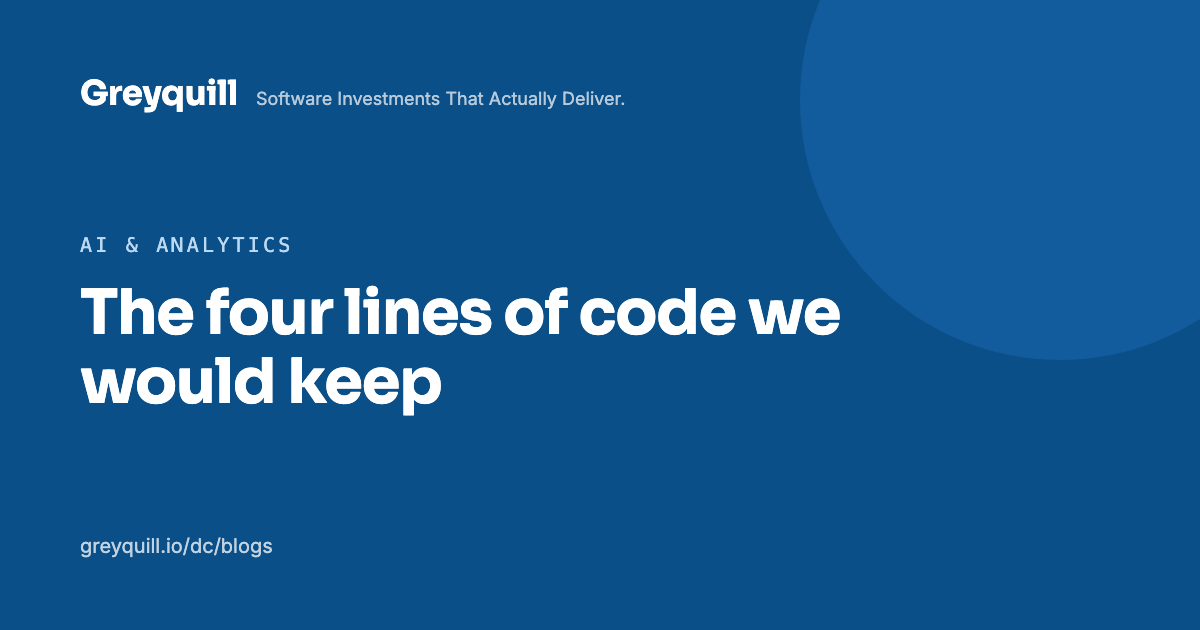
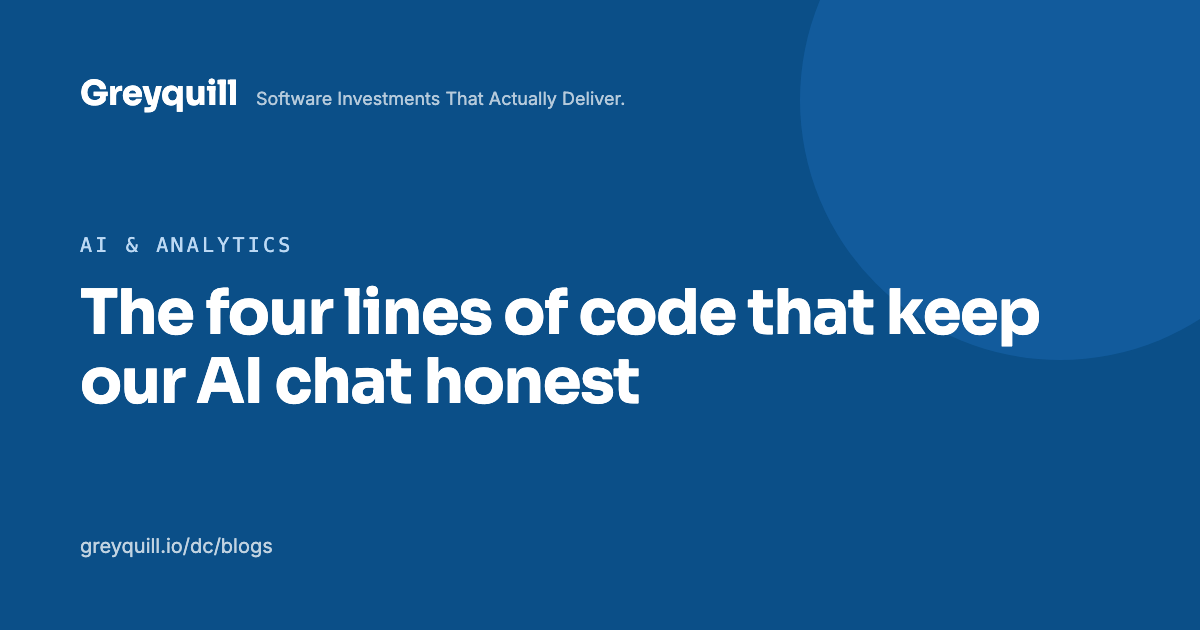
Retitle the post to say what it is about: keeping the AI chat honest

Changed region(s): [[0.0617, 0.5429, 0.555, 0.6635], [0.6167, 0.4524, 0.8633, 0.5429]]

diff --git a/blogs/four-lines-we-would-keep.html b/blogs/four-lines-we-would-keep.html
@@ -5,13 +5,13 @@
   <meta name="viewport" content="width=device-width, initial-scale=1">
   <script>(function(){try{var k='gq-blog-theme',t=localStorage.getItem(k);if(t!=='light'&&t!=='dark')t=matchMedia('(prefers-color-scheme: dark)').matches?'dark':'light';document.documentElement.setAttribute('data-theme',t);}catch(e){}})();</script>
 
-  <title>The four lines of code we would keep. Greyquill</title>
+  <title>The four lines of code that keep our AI chat honest. Greyquill</title>
   <meta name="description" content="Our website chat answers from what we have published and nothing else. A better model deleted 800 lines of scaffolding around it. Four lines survived, and they are the part that matters.">
   <meta name="author" content="Amarnath Bagineni">
   <link rel="canonical" href="https://www.greyquill.io/dc/blogs/four-lines-we-would-keep.html">
 
   <meta property="og:type" content="article">
-  <meta property="og:title" content="The four lines of code we would keep">
+  <meta property="og:title" content="The four lines of code that keep our AI chat honest">
   <meta property="og:description" content="Our website chat answers from what we have published and nothing else. A better model deleted 800 lines of scaffolding. Four lines survived.">
   <meta property="og:url" content="https://www.greyquill.io/dc/blogs/four-lines-we-would-keep.html">
   <meta property="og:site_name" content="Greyquill">
@@ -42,7 +42,7 @@
   <main class="post">
     <a class="post__back" href="index.html">Back to the blog</a>
     <p class="eyebrow">AI &amp; Analytics</p>
-    <h1 class="post__title">The four lines of code we would keep</h1>
+    <h1 class="post__title">The four lines of code that keep our AI chat honest</h1>
     <p class="post__deck">We put a chat on our website that answers from what we have published and nothing else. Building it taught us that reliable AI is mostly a content and harness problem.</p>
 
     <div class="post__headmeta">

diff --git a/blogs/index.html b/blogs/index.html
@@ -45,7 +45,7 @@
         <div class="card__media"><img alt="" src="assets/four-lines-we-would-keep-cover.svg"></div>
         <div class="card__body">
           <span class="card__cat">AI &amp; Analytics</span>
-          <h2 class="card__title">The four lines of code we would keep</h2>
+          <h2 class="card__title">The four lines of code that keep our AI chat honest</h2>
           <span class="card__meta">10 August 2026</span>
         </div>
       </a>
